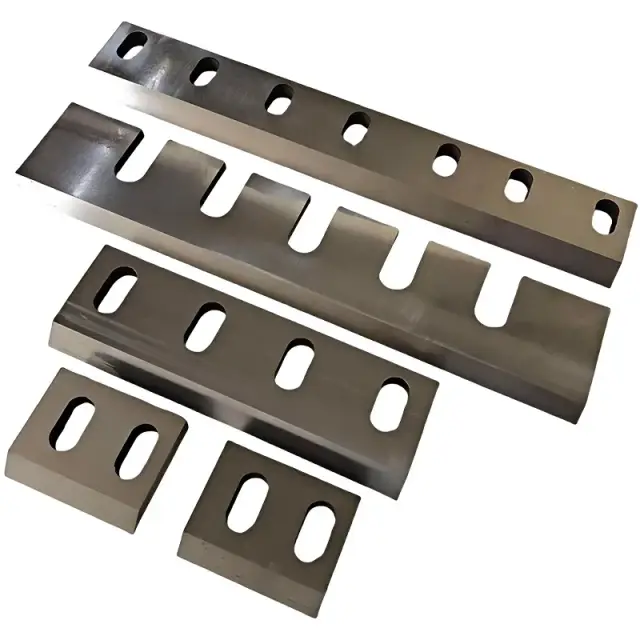
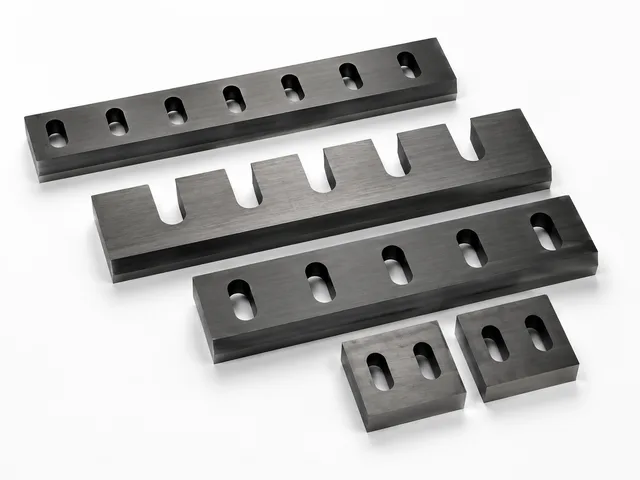
fix(seo): make AggregateOffer price range optional, drop unused keywords prop
Missed from the tissue log saw commit — SEO.tsx already had these
changes from that same prior session (offers.lowPrice/highPrice made
optional so omitOfferPrice can omit them; keywords meta tag removed
site-wide).

diff --git a/client/src/components/common/SEO.tsx b/client/src/components/common/SEO.tsx
@@ -54,8 +54,8 @@ export interface ProductData {
   material?: string; // e.g. "D2 / SKD11 / M2 HSS"
   specs?: { label: string; value: string }[];
   offers?: {
-    lowPrice: number;
-    highPrice: number;
+    lowPrice?: number;
+    highPrice?: number;
   };
 }
 
@@ -102,7 +102,6 @@ export default function SEO({
   productData,
   ogImage,
   noIndex = false,
-  keywords,
   breadcrumbs,
   extraJsonLd,
   preloadImage,
@@ -177,10 +176,13 @@ export default function SEO({
         ...(productData.offers && {
           offers: {
             "@type": "AggregateOffer",
-            lowPrice: productData.offers.lowPrice,
-            highPrice: productData.offers.highPrice,
+            ...(productData.offers.lowPrice !== undefined &&
+              productData.offers.highPrice !== undefined && {
+                lowPrice: productData.offers.lowPrice,
+                highPrice: productData.offers.highPrice,
+                offerCount: "1",
+              }),
             priceCurrency: "USD",
-            offerCount: "1",
             availability: "https://schema.org/InStock",
             shippingDetails: {
               "@type": "OfferShippingDetails",
@@ -246,7 +248,6 @@ export default function SEO({
       {/* Core */}
       <title>{fullTitle}</title>
       <meta name="description" content={description} />
-      {keywords && <meta name="keywords" content={keywords} />}
       {noIndex && <meta name="robots" content="noindex,nofollow" />}
       {canonicalHref && <link rel="canonical" href={canonicalHref} />}
       {preloadImage && (
